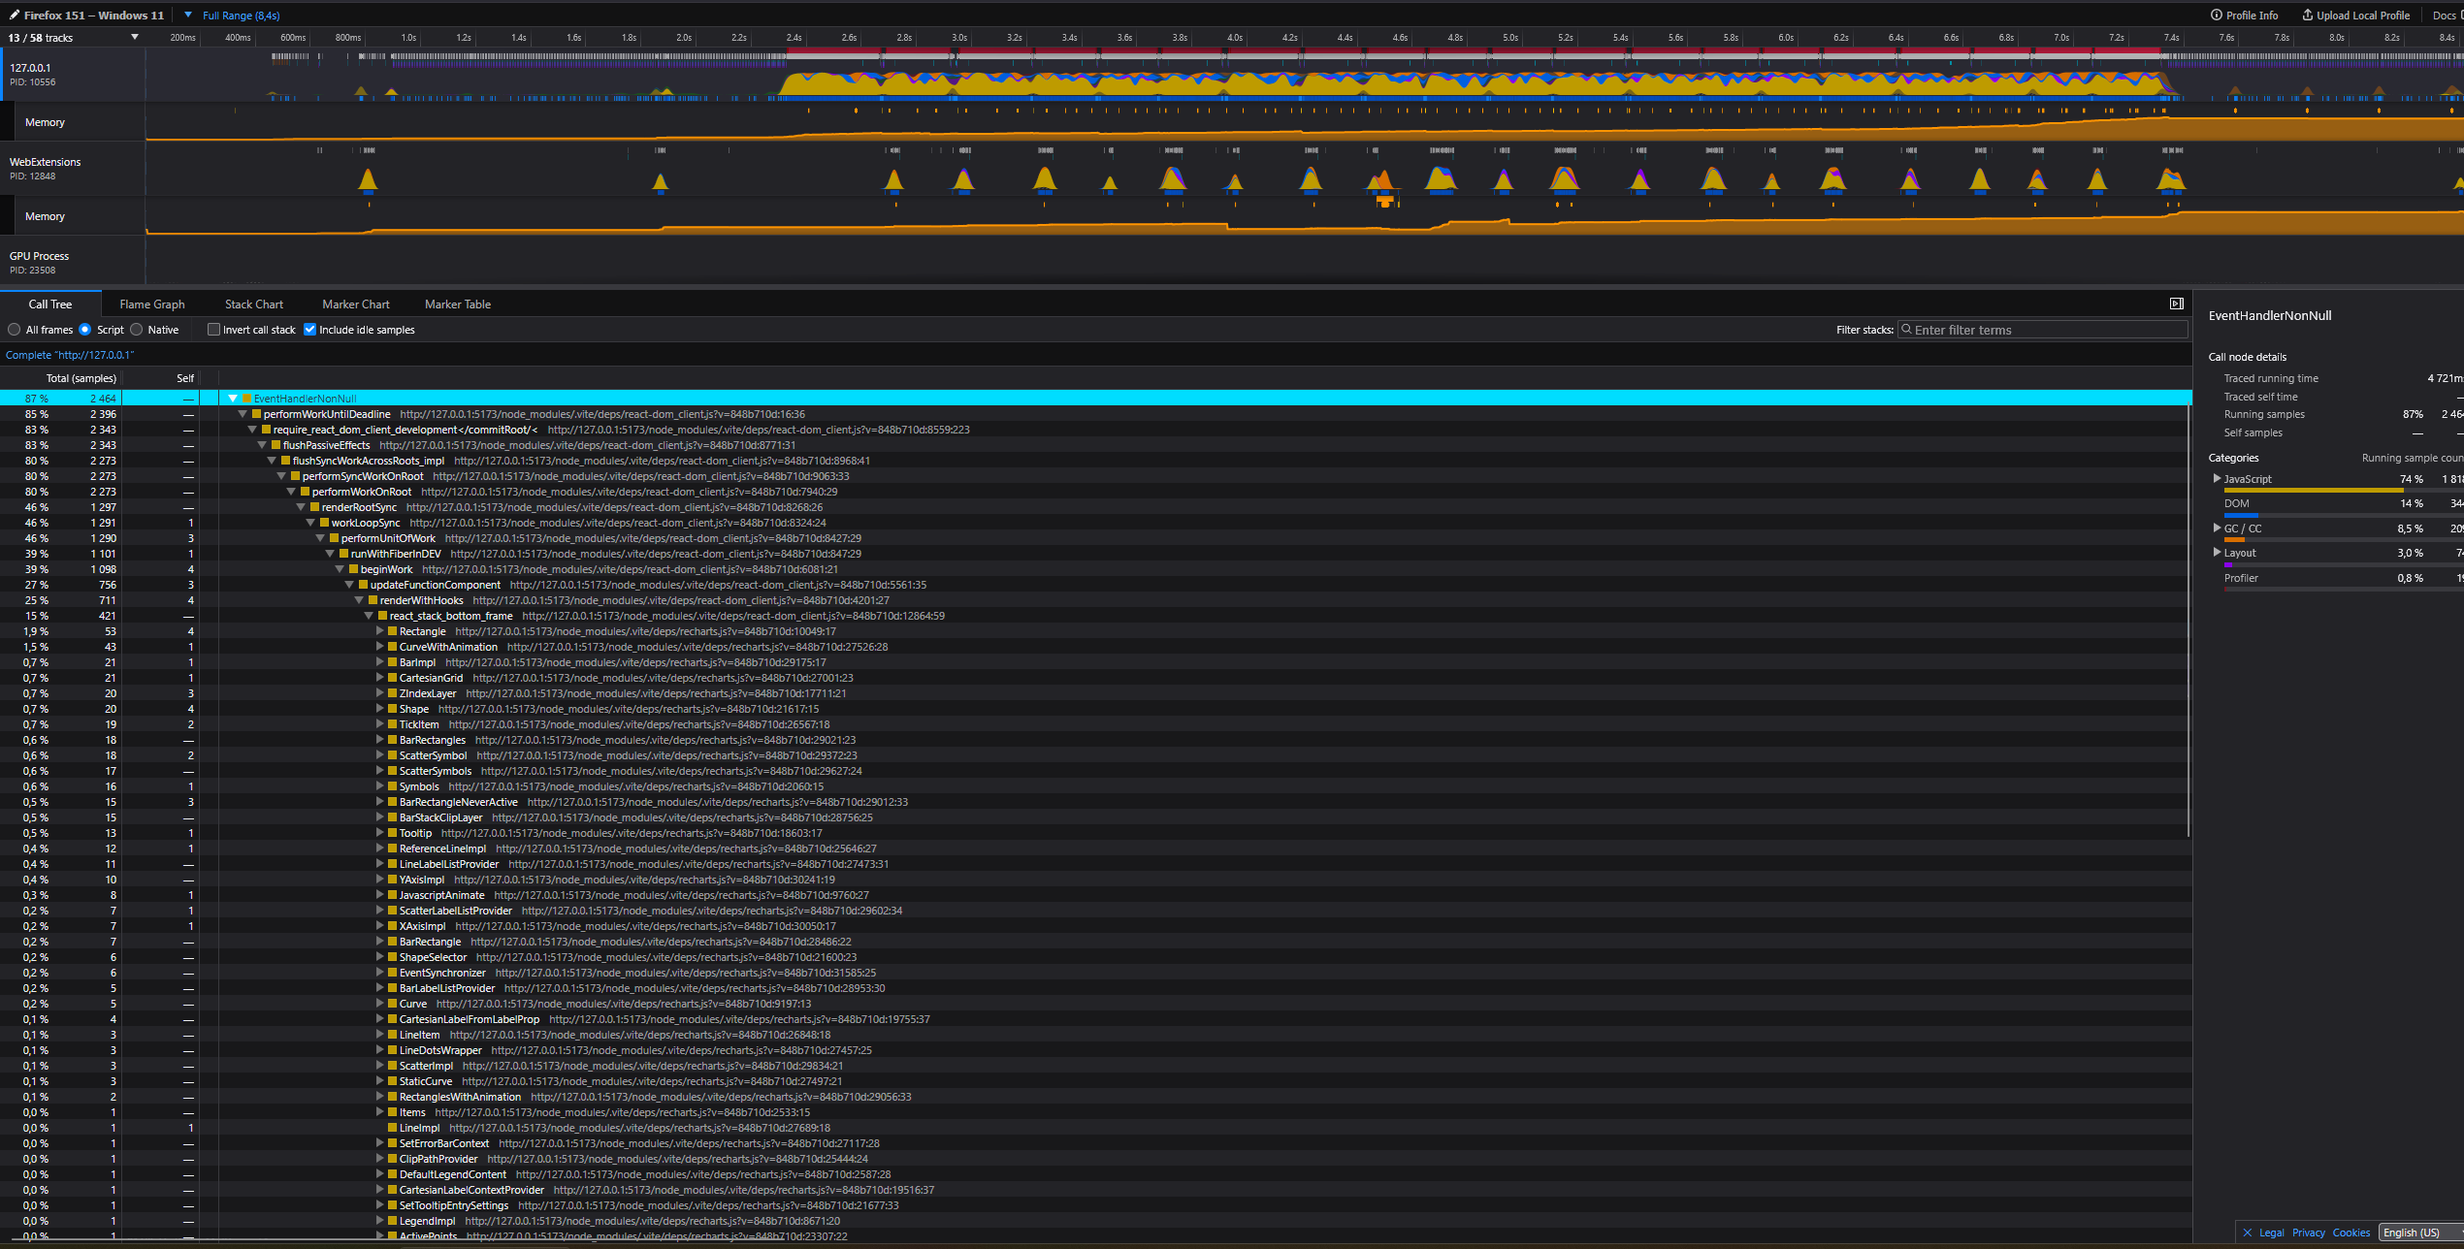
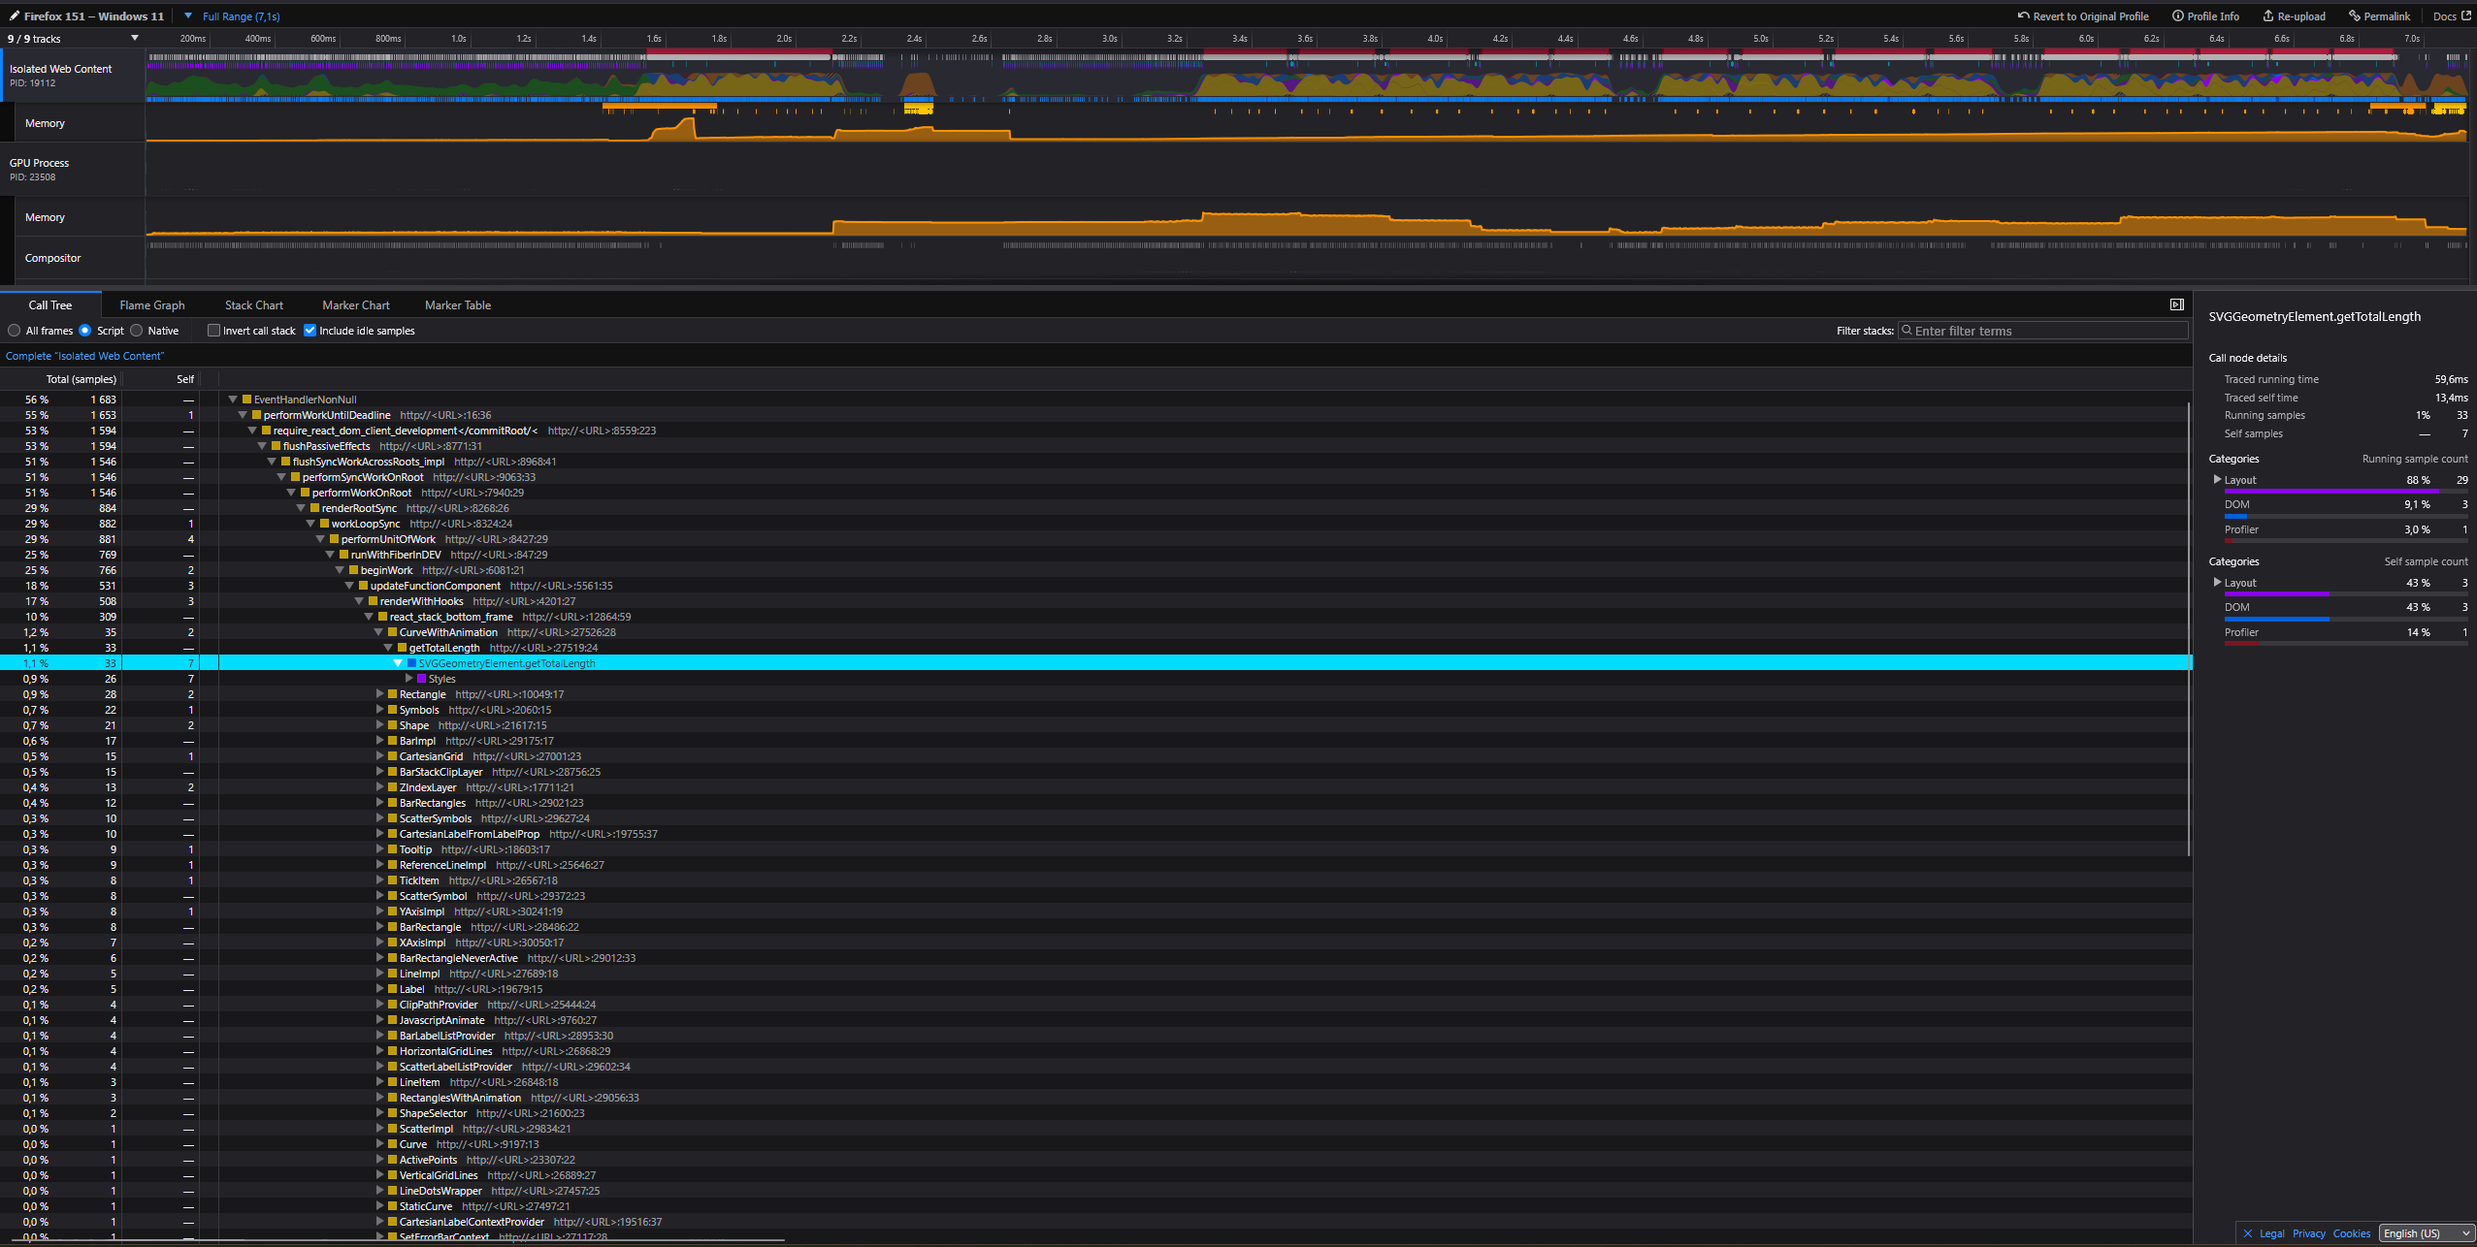
perf: optimize charts resize performance and fix compilation errors

Changed region(s): [[0.0, 0.0, 1.0, 1.0], [0.7465, 0.2488, 0.8398, 0.2799]]

diff --git a/apps/web/src/pages/Financial.tsx b/apps/web/src/pages/Financial.tsx
@@ -8,10 +8,15 @@ import { TenantDiagnostics } from './TenantDiagnostics';
 import { DashboardLayout } from "../components/common/layout/DashboardLayout.tsx";
 import { DashboardTopRow } from "../components/common/layout/DashboardTopRow.tsx";
 import { DashboardFlexRow } from "../components/common/layout/DashboardFlexRow.tsx";
-import { DashboardFooter } from "../components/common/layout/DashboardFooter.tsx";
 import { SyncStatusWidget } from '../components/common/dashboard/SyncStatusWidget';
 import { PeriodSelector } from '../components/common/charts/PeriodSelector';
 import { useFinancialViewModel } from "../hooks/useFinancialViewModel.ts";
+import type { RevenueEfficiencyResponse, MomentumResponse } from '@types';
+
+const EMPTY_VELOCITY: never[] = [];
+const EMPTY_ANOMALY: never[] = [];
+const EMPTY_EFFICIENCY: RevenueEfficiencyResponse = { tenants: [], globalAverageOrderValue: 0, medianPortfolioShare: 0 };
+const EMPTY_MOMENTUM: MomentumResponse = { tenants: [], medianBaselineRevenue: 0, globalGrowthPercentage: 0 };
 
 export function Financial() {
   const vm = useFinancialViewModel();
@@ -77,7 +82,7 @@ export function Financial() {
       {/* Charts Grid: Strictly Responsive & Independent */}
       <DashboardFlexRow weight={"flex-1"} gridCols={"2"}>
         <AccumulatedRevenueChart 
-          points={vm.velocityQuery.data || []}
+          points={vm.velocityQuery.data || EMPTY_VELOCITY}
 
           isLoading={vm.velocityQuery.isLoading} 
           isStale={vm.velocityQuery.isPlaceholderData}
@@ -85,7 +90,7 @@ export function Financial() {
         />
 
         <VolumeAnomalyChart 
-          entries={vm.anomalyQuery.data || []}
+          entries={vm.anomalyQuery.data || EMPTY_ANOMALY}
 
           onTenantSelect={vm.handleTenantSelect} 
           isLoading={vm.anomalyQuery.isLoading} 
@@ -94,7 +99,7 @@ export function Financial() {
         />
 
         <RevenueEfficiencyChart 
-          response={vm.efficiencyQuery.data || { tenants: [], globalAverageOrderValue: 0, medianPortfolioShare: 0 }}
+          response={vm.efficiencyQuery.data || EMPTY_EFFICIENCY}
 
           onTenantSelect={vm.handleTenantSelect} 
           isLoading={vm.efficiencyQuery.isLoading} 
@@ -103,7 +108,7 @@ export function Financial() {
         />
 
         <MomentumMatrixChart 
-          momentum={vm.momentumQuery.data || { tenants: [], medianBaselineRevenue: 0, globalGrowthPercentage: 0 }}
+          momentum={vm.momentumQuery.data || EMPTY_MOMENTUM}
 
           onTenantSelect={vm.handleTenantSelect} 
           isLoading={vm.momentumQuery.isLoading} 

diff --git a/apps/web/src/pages/TenantDiagnostics.tsx b/apps/web/src/pages/TenantDiagnostics.tsx
@@ -16,6 +16,11 @@ import {DashboardLayout} from "../components/common/layout/DashboardLayout.tsx";
 import {DashboardTopRow} from "../components/common/layout/DashboardTopRow.tsx";
 import {DashboardFlexRow} from "../components/common/layout/DashboardFlexRow.tsx";
 
+const EMPTY_ACCUMULATED: never[] = [];
+const EMPTY_DENSITY: never[] = [];
+const EMPTY_DELTA: never[] = [];
+const EMPTY_BINS: never[] = [];
+
 interface Props {
   tenantId: string;
   tenantName: string;
@@ -102,25 +107,25 @@ export function TenantDiagnostics({ tenantId, tenantName, tenantType, timeframe,
 
       <DashboardFlexRow weight={"flex-1"} gridCols={"2"}>
         <AccumulatedRevenueChart 
-          points={accumulatedQuery.data || []} 
+          points={accumulatedQuery.data || EMPTY_ACCUMULATED} 
           isLoading={accumulatedQuery.isLoading} 
           className="h-full min-h-87.5"
         />
         
         <TransactionDensityChart
-          points={densityQuery.data || []}
+          points={densityQuery.data || EMPTY_DENSITY}
           isLoading={densityQuery.isLoading}
           className="h-full min-h-87.5"
         />
 
         <CumulativeGrowthDeltaChart 
-          points={deltaQuery.data || []} 
+          points={deltaQuery.data || EMPTY_DELTA} 
           isLoading={deltaQuery.isLoading} 
           className="h-full min-h-87.5"
         />
 
         <OrderValueDistributionChart 
-          bins={orderQuery.data || []} 
+          bins={orderQuery.data || EMPTY_BINS} 
           isLoading={orderQuery.isLoading} 
           className="h-full min-h-87.5"
         />

diff --git a/apps/web/src/components/FleetStatus/NetworkLatencyChart.tsx b/apps/web/src/components/FleetStatus/NetworkLatencyChart.tsx
@@ -1,3 +1,4 @@
+import { memo } from 'react';
 import {
   CartesianGrid,
   ResponsiveContainer,
@@ -62,7 +63,7 @@ const GraphTooltip = ({ active, payload, label }: GraphTooltipProps) => {
 import { ChartSkeleton } from '../common/charts/ChartSkeleton';
 import { EmptyState } from '../common/ui/EmptyState';
 
-export function NetworkLatencyChart({ isLoading, points, title = "Network Latency", className }: { isLoading?: boolean; points: LatencyPoint[], title?: string, className?: string }) {
+export const NetworkLatencyChart = memo(function NetworkLatencyChart({ isLoading, points, title = "Network Latency", className }: { isLoading?: boolean; points: LatencyPoint[], title?: string, className?: string }) {
   if (isLoading) {
     return <ChartSkeleton />;
   }
@@ -91,7 +92,7 @@ export function NetworkLatencyChart({ isLoading, points, title = "Network Latenc
               <LineChart data={points} margin={{ top: 10, right: 20, left: -5, bottom: 10 }}>
                 <CartesianGrid vertical={false} stroke="var(--color-chart-grid)" strokeDasharray="3 3" />
                 <XAxis 
-                  dataKey="label" 
+                   dataKey="label" 
                   fontSize={12} 
                   tick={{ fill: 'var(--color-chart-tick)', fontWeight: 700, fontFamily: 'Manrope, sans-serif' }} 
                   tickMargin={15} 
@@ -133,4 +134,4 @@ export function NetworkLatencyChart({ isLoading, points, title = "Network Latenc
         </div>
       </div>
   );
-}
+});

diff --git a/apps/web/src/routes/__root.tsx b/apps/web/src/routes/__root.tsx
@@ -1,9 +1,7 @@
-import { createRootRoute, Outlet, useRouterState} from '@tanstack/react-router';
+import { createRootRoute, Outlet } from '@tanstack/react-router';
 import { TanStackRouterDevtools } from '@tanstack/react-router-devtools';
 import { ReactQueryDevtools } from '@tanstack/react-query-devtools';
 import { Settings } from 'lucide-react';
-import { PeriodSelector } from '../components/common/charts/PeriodSelector';
-import { SyncStatusWidget } from '../components/common/dashboard/SyncStatusWidget';
 import { KioskControls } from '../components/common/dashboard/KioskControls';
 import motilloLogo from '../assets/motillo-logo.svg';
 import { getSavedTimeframe } from '../utils/timeframeStorage';
@@ -14,13 +12,8 @@ export const Route = createRootRoute({
 });
 
 function RootComponent() {
-  const matches = useRouterState({ select: (s) => s.matches });
-
   const financialTf = getSavedTimeframe('/financial');
   const fleetTf = getSavedTimeframe('/fleet-status');
-
-  const isFinancial = matches.some((m) => m.routeId === '/financial' || m.pathname.includes('/financial'));
-  const isFleet = matches.some((m) => m.routeId === '/fleet-status' || m.pathname.includes('/fleet-status'));
 
   return (
     <div className="flex flex-col h-screen w-screen bg-brand-bg-tertiary overflow-hidden select-none font-sans text-brand-text">

diff --git a/apps/web/src/components/financial/AccumulatedRevenueChart.tsx b/apps/web/src/components/financial/AccumulatedRevenueChart.tsx
@@ -1,3 +1,4 @@
+import { memo } from 'react';
 import { ComposedChart, Line, Bar, XAxis, YAxis, CartesianGrid, Tooltip, ResponsiveContainer, Legend } from 'recharts';
 import type { AccumulatedRevenuePointDto } from '@types';
 import { ChartPanel } from '../common/charts/ChartPanel';
@@ -31,7 +32,7 @@ const CustomTooltip = ({ active, payload, label }: { active?: boolean; payload?:
   );
 };
 
-export function AccumulatedRevenueChart({ isLoading, isStale, points, className }: AccumulatedRevenueChartProps) {
+export const AccumulatedRevenueChart = memo(function AccumulatedRevenueChart({ isLoading, isStale, points, className }: AccumulatedRevenueChartProps) {
   return (
     <ChartPanel isLoading={isLoading} isStale={isStale} title="Revenue Performance" className={className} bodyClassName={points.length === 0 ? "flex items-center justify-center" : ""}>
       {points.length === 0 ? (
@@ -104,4 +105,4 @@ export function AccumulatedRevenueChart({ isLoading, isStale, points, className 
       )}
     </ChartPanel>
   );
-}
+});

diff --git a/apps/web/src/components/financial/RevenueVelocityChart.tsx b/apps/web/src/components/financial/RevenueVelocityChart.tsx
@@ -1,3 +1,4 @@
+import { memo } from 'react';
 import {
   LineChart,
   Line,
@@ -11,7 +12,7 @@ import type { FinancialVelocityPoint } from '@types';
 import { formatCompact } from '@utils';
 import { ChartPanel } from '../common/charts/ChartPanel';
 
-export function RevenueVelocityChart({ isLoading, points, className }: { isLoading?: boolean;  points: FinancialVelocityPoint[], className?: string })
+export const RevenueVelocityChart = memo(function RevenueVelocityChart({ isLoading, points, className }: { isLoading?: boolean;  points: FinancialVelocityPoint[], className?: string })
 {
   return (
       <ChartPanel isLoading={isLoading}
@@ -32,7 +33,7 @@ export function RevenueVelocityChart({ isLoading, points, className }: { isLoadi
         <RevenueVelocityGraphJSX points={points} />
       </ChartPanel>
   );
-}
+});
 
 const GraphTooltip = ({ active, payload, label }: { active?: boolean; payload?: { payload: unknown }[]; label?: string }) => {
   if (!active || !payload?.length) return null;

diff --git a/apps/web/src/components/TenantSpecific/PortfolioRevenueShareTrajectoryChart.tsx b/apps/web/src/components/TenantSpecific/PortfolioRevenueShareTrajectoryChart.tsx
@@ -1,3 +1,4 @@
+import { memo } from 'react';
 import {
   Area,
   AreaChart,
@@ -41,7 +42,7 @@ const CustomTooltip = ({ active, payload, label }: { active?: boolean; payload?:
   );
 };
 
-export function PortfolioRevenueShareTrajectoryChart({isLoading, tenantVelocity, portfolioVelocity, className}: { isLoading?: boolean; tenantVelocity: FinancialVelocityPoint[]; portfolioVelocity: FinancialVelocityPoint[]; className?: string; }) {
+export const PortfolioRevenueShareTrajectoryChart = memo(function PortfolioRevenueShareTrajectoryChart({isLoading, tenantVelocity, portfolioVelocity, className}: { isLoading?: boolean; tenantVelocity: FinancialVelocityPoint[]; portfolioVelocity: FinancialVelocityPoint[]; className?: string; }) {
   const rows = buildRows(tenantVelocity, portfolioVelocity);
 
   return (
@@ -83,4 +84,4 @@ export function PortfolioRevenueShareTrajectoryChart({isLoading, tenantVelocity,
       </ResponsiveContainer>
     </ChartPanel>
   );
-}
+});

diff --git a/apps/web/src/components/common/charts/ChartPanel.tsx b/apps/web/src/components/common/charts/ChartPanel.tsx
@@ -14,7 +14,7 @@ interface ChartPanelProps {
 
 export function ChartPanel({ title, legend, bodyClassName = '', className = '', isLoading = false, isStale = false, children }: ChartPanelProps) {
   return (
-      <div className={`bg-white rounded-xl border border-slate-200 shadow-sm px-4 py-4 flex flex-col h-full min-h-0 relative overflow-hidden ${className}`}>
+      <div className={`bg-white rounded-xl border border-slate-200 shadow-sm px-4 py-4 flex flex-col h-full min-h-0 relative overflow-hidden ${className}`} style={{ contain: 'layout style paint', contentVisibility: 'auto', containIntrinsicSize: 'auto 350px' }}>
         {isStale && !isLoading && (
             <div className="absolute inset-0 bg-white/50 backdrop-blur-[1px] z-20 flex flex-col items-center justify-center animate-in fade-in duration-200">
                <Loader2 size={32} className="text-brand-accent animate-spin opacity-80" />

diff --git a/apps/web/src/hooks/useFinancialViewModel.ts b/apps/web/src/hooks/useFinancialViewModel.ts
@@ -1,5 +1,5 @@
 import { useSearch, useNavigate } from '@tanstack/react-router';
-import { useMemo } from 'react';
+import { useMemo, useCallback } from 'react';
 import { 
   useGlobalKpis, 
   useAccumulatedRevenue, 
@@ -41,13 +41,13 @@ export function useFinancialViewModel() {
     return { tenantName, type };
   }, [tenantId, extremesQuery.data, efficiencyQuery.data, anomalyQuery.data, momentumQuery.data]);
 
-  const handleTenantSelect = (id: string) => {
+  const handleTenantSelect = useCallback((id: string) => {
     void navigate({ search: (prev: Record<string, unknown>) => ({ ...prev, tenantId: id }) });
-  };
+  }, [navigate]);
 
-  const handleBackToGlobal = () => {
+  const handleBackToGlobal = useCallback(() => {
     void navigate({ search: (prev: Record<string, unknown>) => ({ ...prev, tenantId: undefined }) });
-  };
+  }, [navigate]);
 
   return {
     timeframe,

diff --git a/apps/web/src/components/TenantSpecific/CumulativeGrowthDeltaChart.tsx b/apps/web/src/components/TenantSpecific/CumulativeGrowthDeltaChart.tsx
@@ -1,3 +1,4 @@
+import { memo } from 'react';
 import {
   CartesianGrid,
   Line,
@@ -39,7 +40,7 @@ const CustomTooltip = ({ active, payload, label }: { isLoading?: boolean;  activ
   );
 };
 
-export function CumulativeGrowthDeltaChart({ isLoading, points, className }: { isLoading?: boolean;  points: CumulativeGrowthDeltaPoint[], className?: string }) {
+export const CumulativeGrowthDeltaChart = memo(function CumulativeGrowthDeltaChart({ isLoading, points, className }: { isLoading?: boolean;  points: CumulativeGrowthDeltaPoint[], className?: string }) {
   return (
     <ChartPanel isLoading={isLoading}
       title="Cumulative Growth Delta (Absolute)"
@@ -77,4 +78,4 @@ export function CumulativeGrowthDeltaChart({ isLoading, points, className }: { i
       </ResponsiveContainer>
     </ChartPanel>
   );
-}
+});

diff --git a/apps/web/src/components/TenantSpecific/TenantRevenueVelocityChart.tsx b/apps/web/src/components/TenantSpecific/TenantRevenueVelocityChart.tsx
@@ -1,3 +1,4 @@
+import { memo } from 'react';
 import {
   CartesianGrid,
   Line,
@@ -31,7 +32,7 @@ const CustomTooltip = ({ active, payload, label }: { isLoading?: boolean;  activ
   );
 };
 
-export function TenantRevenueVelocityChart({ isLoading, points, className }: { isLoading?: boolean;  points: FinancialVelocityPoint[], className?: string }) {
+export const TenantRevenueVelocityChart = memo(function TenantRevenueVelocityChart({ isLoading, points, className }: { isLoading?: boolean;  points: FinancialVelocityPoint[], className?: string }) {
   return (
     <ChartPanel isLoading={isLoading}
       title="Revenue Velocity Over Time"
@@ -90,4 +91,4 @@ export function TenantRevenueVelocityChart({ isLoading, points, className }: { i
       </ResponsiveContainer>
     </ChartPanel>
   );
-}
+});

diff --git a/apps/web/src/components/financial/MomentumMatrixChart.tsx b/apps/web/src/components/financial/MomentumMatrixChart.tsx
@@ -1,3 +1,4 @@
+import { memo } from 'react';
 import {
   CartesianGrid,
   ReferenceLine,
@@ -125,7 +126,7 @@ points: MomentumTenant[]; medianBaselineRevenue: number; globalGrowthPercentage:
   );
 }
 
-export function MomentumMatrixChart({ isLoading, isStale, momentum, onTenantSelect, className }: { isLoading?: boolean; isStale?: boolean;  
+export const MomentumMatrixChart = memo(function MomentumMatrixChart({ isLoading, isStale, momentum, onTenantSelect, className }: { isLoading?: boolean; isStale?: boolean;  
 momentum: MomentumResponse; onTenantSelect?: (tenantId: string) => void; className?: string; })
 {
   const points = momentum.tenants;
@@ -150,4 +151,4 @@ momentum: MomentumResponse; onTenantSelect?: (tenantId: string) => void; classNa
       )}
     </ChartPanel>
   );
-}
+});
